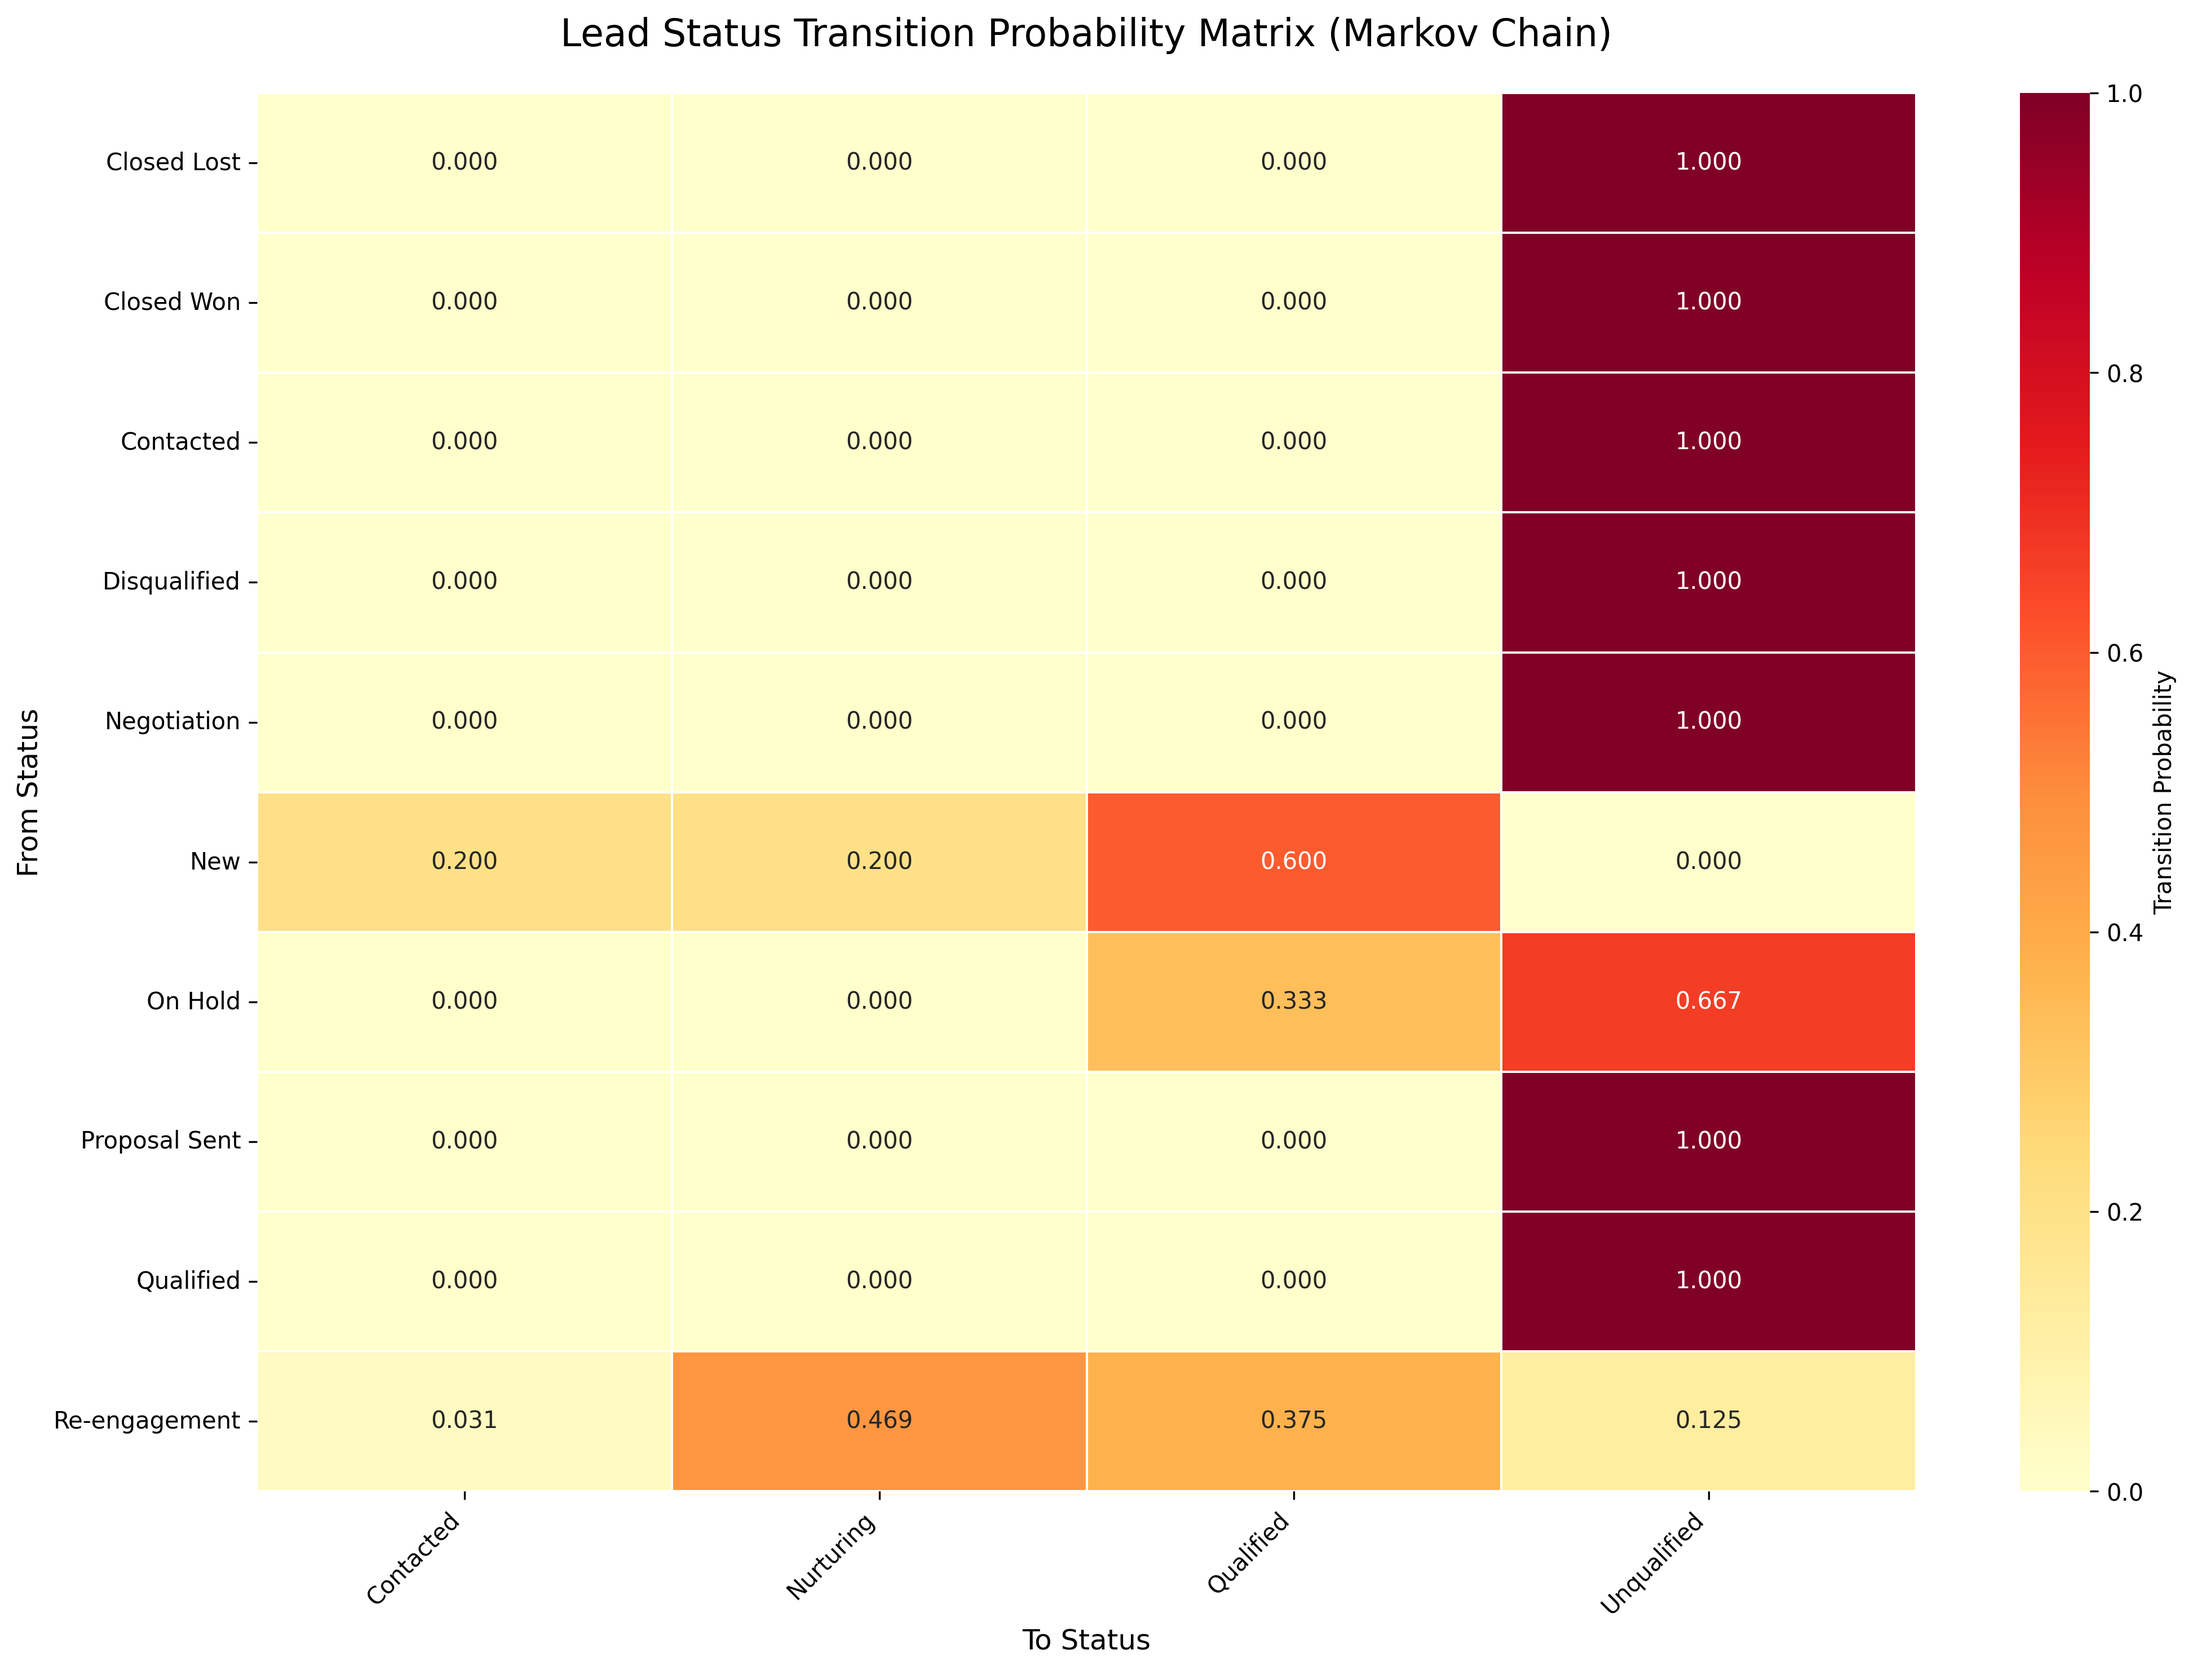
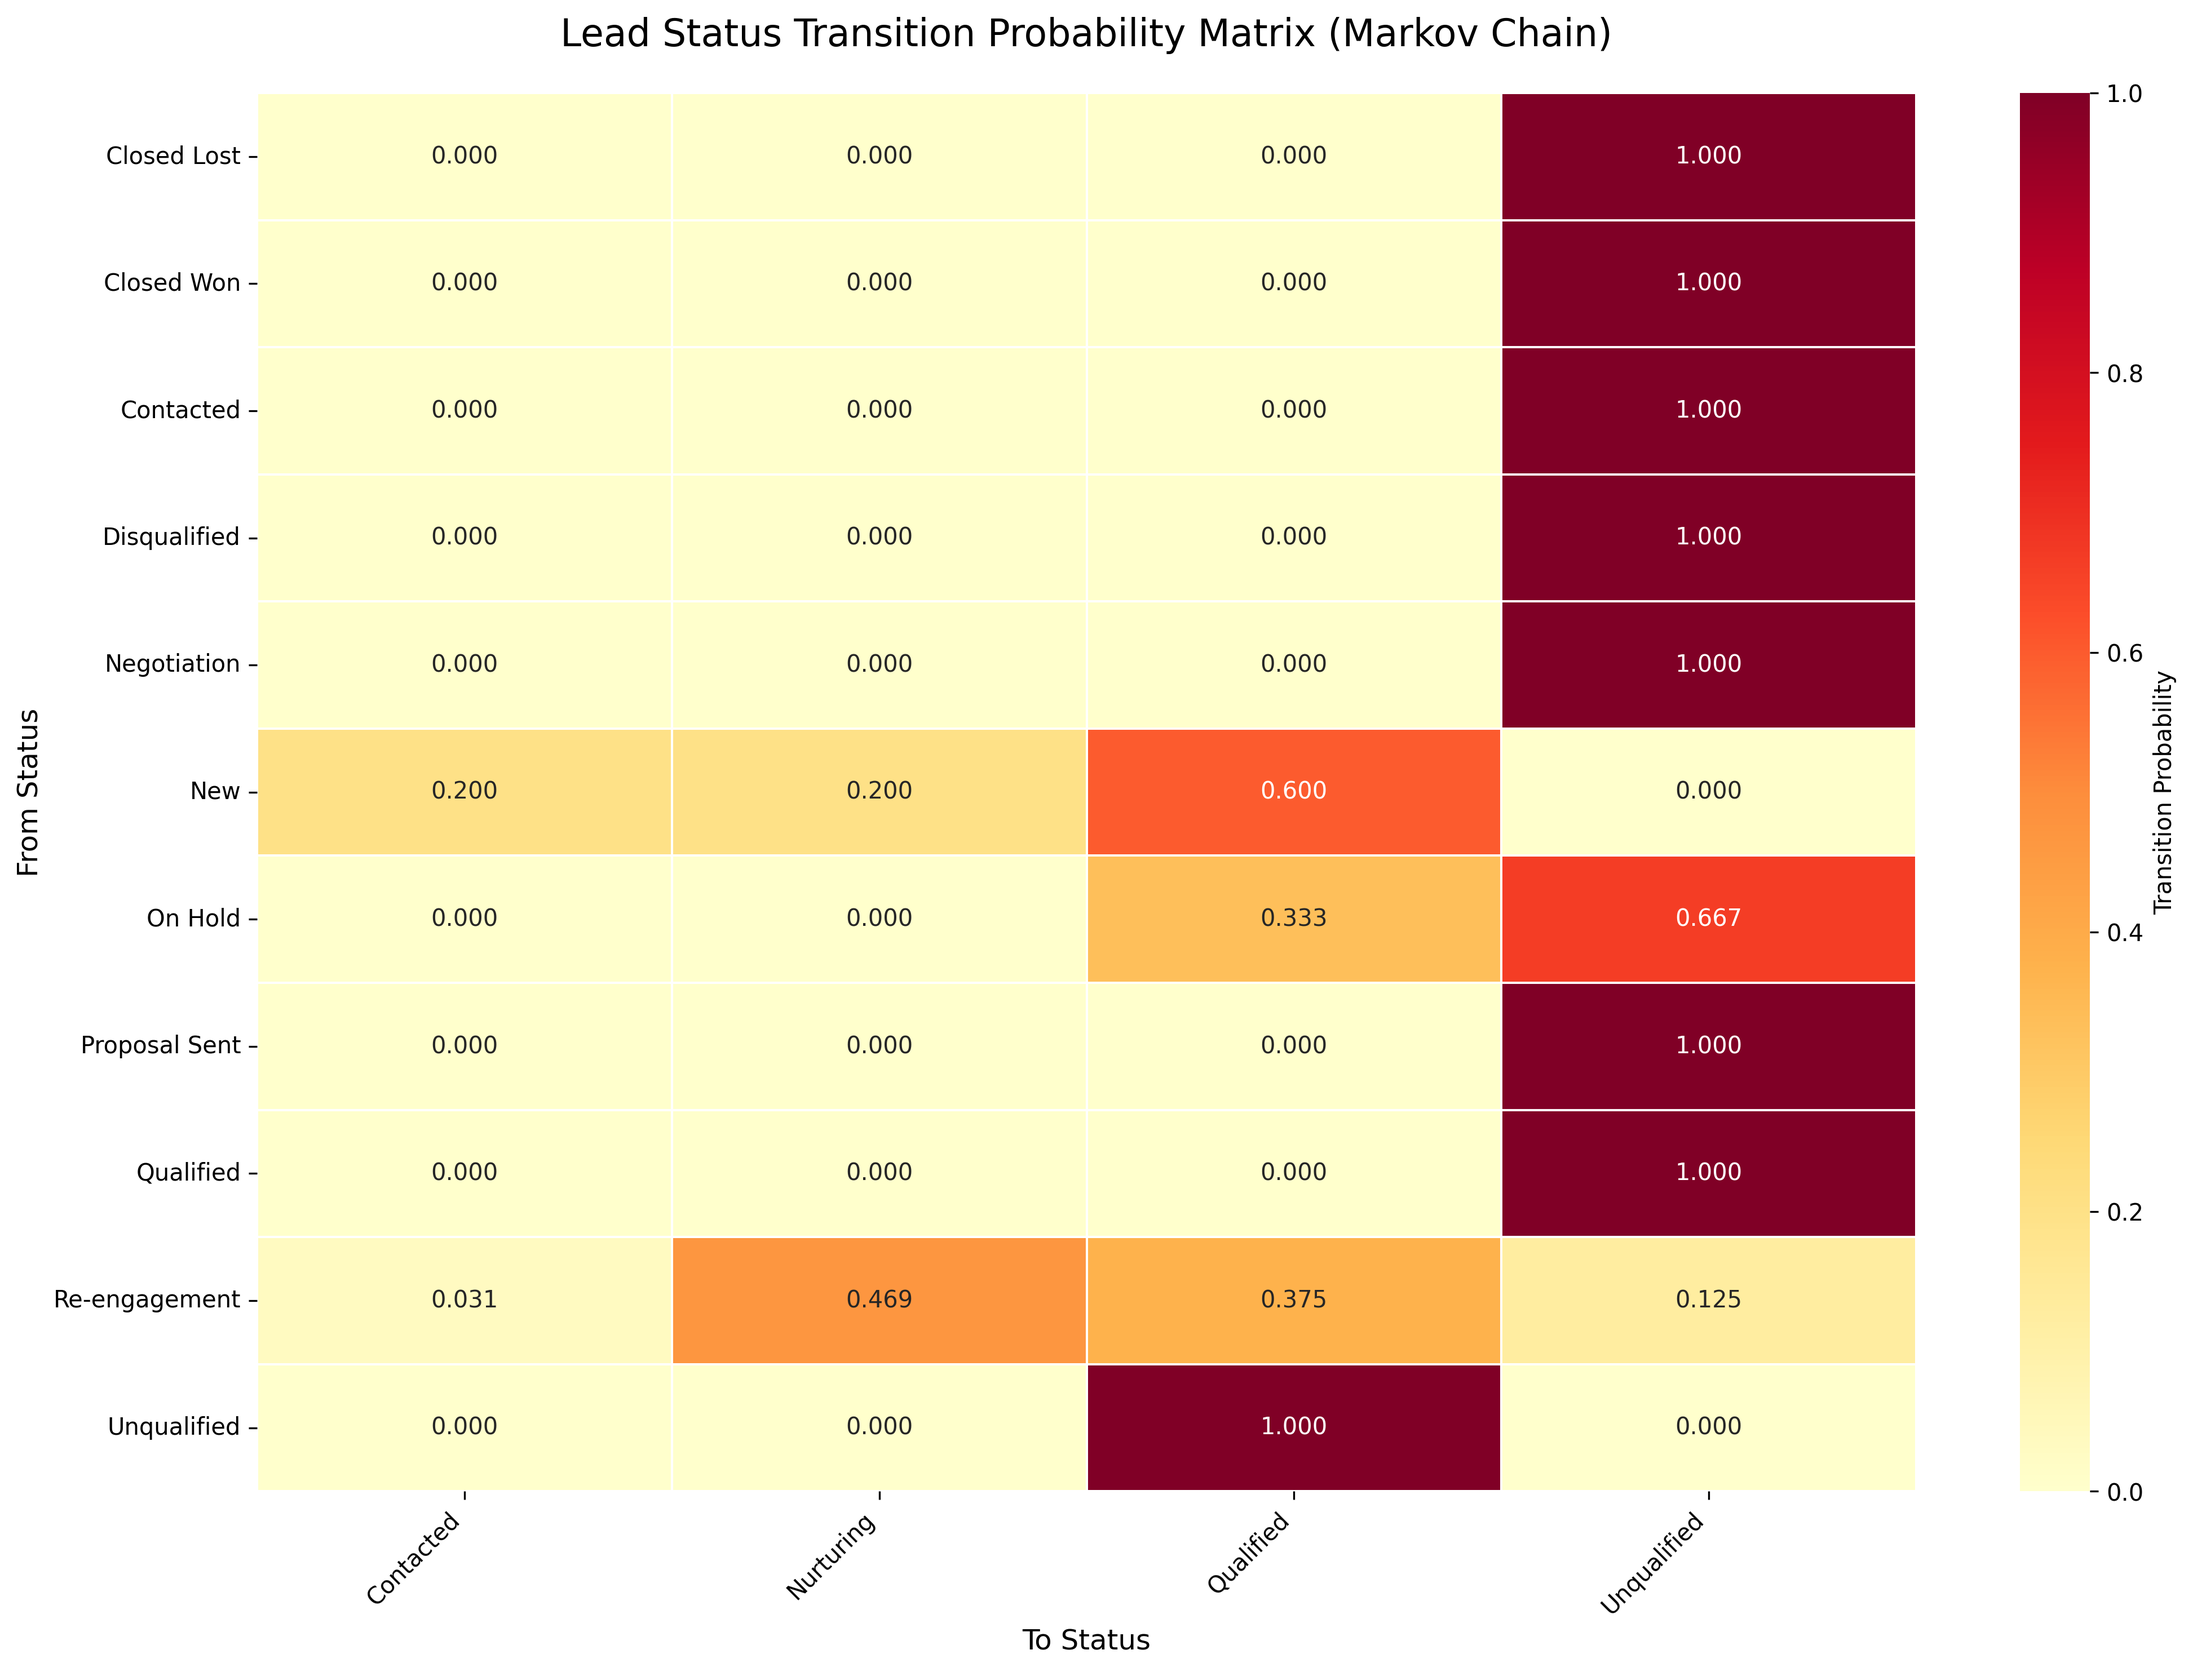
lead status python file

diff --git a/lead_salesforce/lead_status_transitions_analysis.py b/lead_salesforce/lead_status_transitions_analysis.py
@@ -1,0 +1,93 @@
+# ===========================================
+# Lead Status Transition Analysis (Markov Chain)
+# ===========================================
+# This script reads Salesforce lead status transitions from a Spark table,
+# calculates the probability of moving from one status to another,
+# visualizes the transition matrix as a heatmap,
+# and saves both the visualization and final Spark table.
+# ===========================================
+
+# ---- Imports ----
+from pyspark.sql import functions as F
+from pyspark.sql.window import Window
+import pandas as pd
+import matplotlib.pyplot as plt
+import seaborn as sns
+import os
+
+# ---- Step 1: Load Transitions Data ----
+# Read from Databricks table containing lead status changes
+transitions = (
+    spark.read.table("workspace.salesforce.lead_status_transitions")
+    .filter("Field = 'Status'")              # Keep only status change records
+    .select("OldValue", "NewValue", "total") # Select relevant columns
+)
+
+# ---- Step 2: Aggregate Transition Counts ----
+# Count total transitions between each pair of statuses
+transition_counts = (
+    transitions
+    .groupBy("OldValue", "NewValue")
+    .agg(F.sum("total").alias("count"))
+)
+
+# ---- Step 3: Compute Totals per Source Status ----
+state_totals = (
+    transition_counts
+    .groupBy("OldValue")
+    .agg(F.sum("count").alias("total"))
+)
+
+# ---- Step 4: Calculate Transition Probabilities ----
+# For each 'from_status' → 'to_status', compute probability = count / total
+transition_probs = (
+    transition_counts
+    .join(state_totals, "OldValue")  
+    .withColumn("probability", F.col("count") / F.col("total"))
+    .select(
+        F.col("OldValue").alias("from_status"),
+        F.col("NewValue").alias("to_status"),
+        "count",
+        F.round("probability", 4).alias("probability")
+    )
+    .orderBy("from_status", F.desc("probability"))
+)
+
+
+# ---- Step 5: Save Final Table ----
+# Save the resulting probabilities as a managed Spark table for future use
+transition_probs.write.mode("overwrite").saveAsTable("workspace.salesforce.lead_status_transition_probs")
+
+# ---- Step 6: Convert to Pandas for Visualization ----
+prob_matrix_df = transition_probs.toPandas()
+
+# ---- Step 7: Create Pivot Table for Heatmap ----
+pivot = (
+    prob_matrix_df.pivot(index='from_status', columns='to_status', values='probability')
+    .fillna(0)
+)
+
+# ---- Step 8: Plot Heatmap ----
+plt.figure(figsize=(14, 10))
+sns.heatmap(
+    pivot,
+    annot=True,
+    fmt='.3f',
+    cmap='YlOrRd',
+    cbar_kws={'label': 'Transition Probability'},
+    linewidths=0.5
+)
+plt.title('Lead Status Transition Probability Matrix (Markov Chain)', fontsize=16, pad=20)
+plt.xlabel('To Status', fontsize=12)
+plt.ylabel('From Status', fontsize=12)
+plt.xticks(rotation=45, ha='right')
+plt.yticks(rotation=0)
+plt.tight_layout()
+
+# ---- Step 9: Save Heatmap as PNG ----
+output_path = os.path.join(os.getcwd(), "lead_status_transition_heatmap.png")
+plt.savefig(output_path, dpi=300, bbox_inches='tight')
+
+# ---- Optional Step 11: Print Save Confirmation ----
+print(f"✅ Transition probability table saved as 'workspace.salesforce.lead_status_transition_probs'")
+print(f"✅ Heatmap image saved to: {output_path}")
